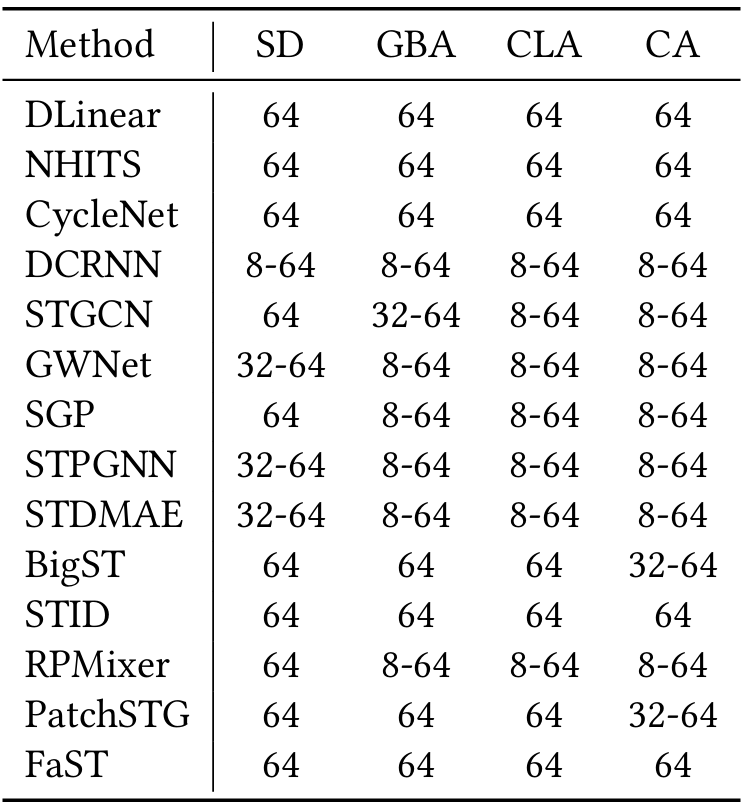
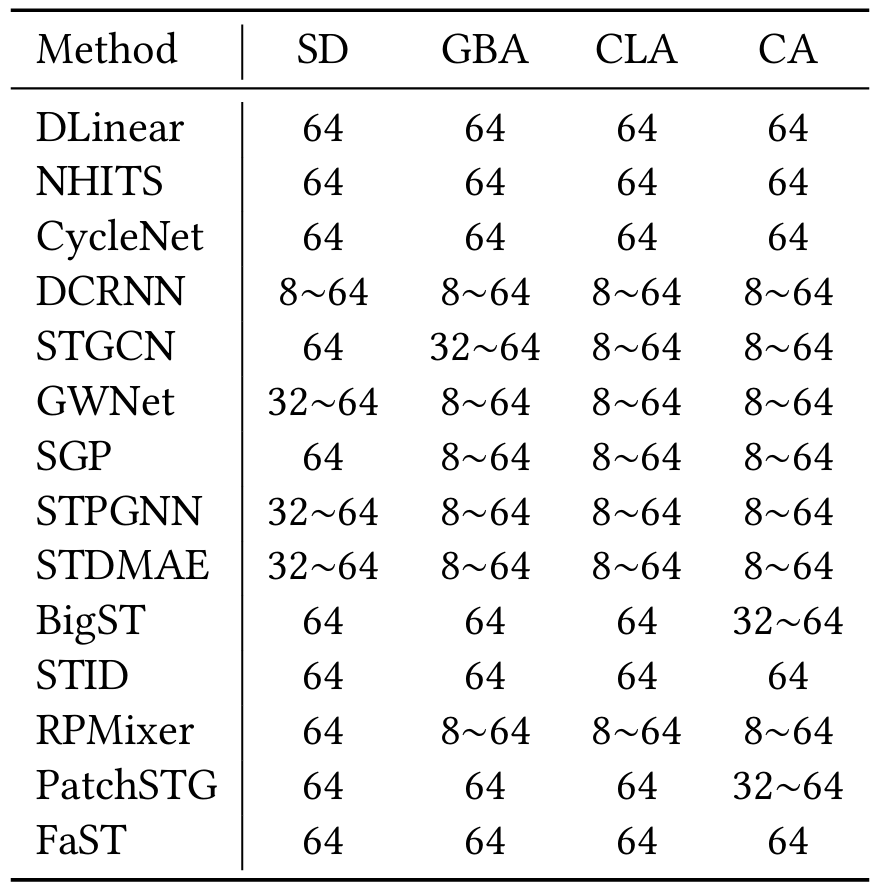
main

diff --git a/README.md b/README.md
@@ -131,7 +131,14 @@ In addition, **Table 5** lists the **batch-size** configurations used by differe
 <img src="src/results2.png" alt="Table 3 Results" style="width:80%;">
 </p>
 
-<p align="center"><b>Table&nbsp;4</b> Performance comparisons on Electricity (24=>12/24/48/168). Improvement is the percentage improvement of the best method over the second-best.</p>
+<p align="center">
+  <b>Table&nbsp;4</b> Performance comparisons on the Electricity dataset (24⇒12/24/48/168).
+  <b>Bold</b> indicates first place,
+  <u>underline</u> indicates second place.
+  The notation "24⇒12" denotes training on the past 24 time steps to predict the next 12 time steps.
+  "<i>Improv.</i>" is the percentage improvement of the FaST model over the best baseline.
+</p>
+
 
 ![Table 4 Results1](src/results3.png)
 
